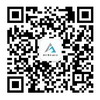
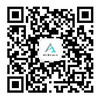
更新公众号二维码与联系方式信息

diff --git a/README.md b/README.md
@@ -40,11 +40,11 @@
 ## 关于作者
 
 微信公众号：机器学习初学者 ![gongzhong](images/gongzhong.jpg)
-知识星球：黄博的机器学习圈子![xingqiu](images/zhishixingqiu1.jpg)
+
 
 [我的知乎](https://www.zhihu.com/people/fengdu78/activities)
 
-机器学习qq群：704220115（我们有11个群，加过一个就不需要加了）
+机器学习qq群：772479961（我们有14个群，加过一个就不需要加了）
 
 **注意：github下载太慢的话，关注我的公众号：“机器学习初学者”，回复“学习路线”即可下载本仓库的镜像文件，整个仓库压缩成一个iso。**
 
